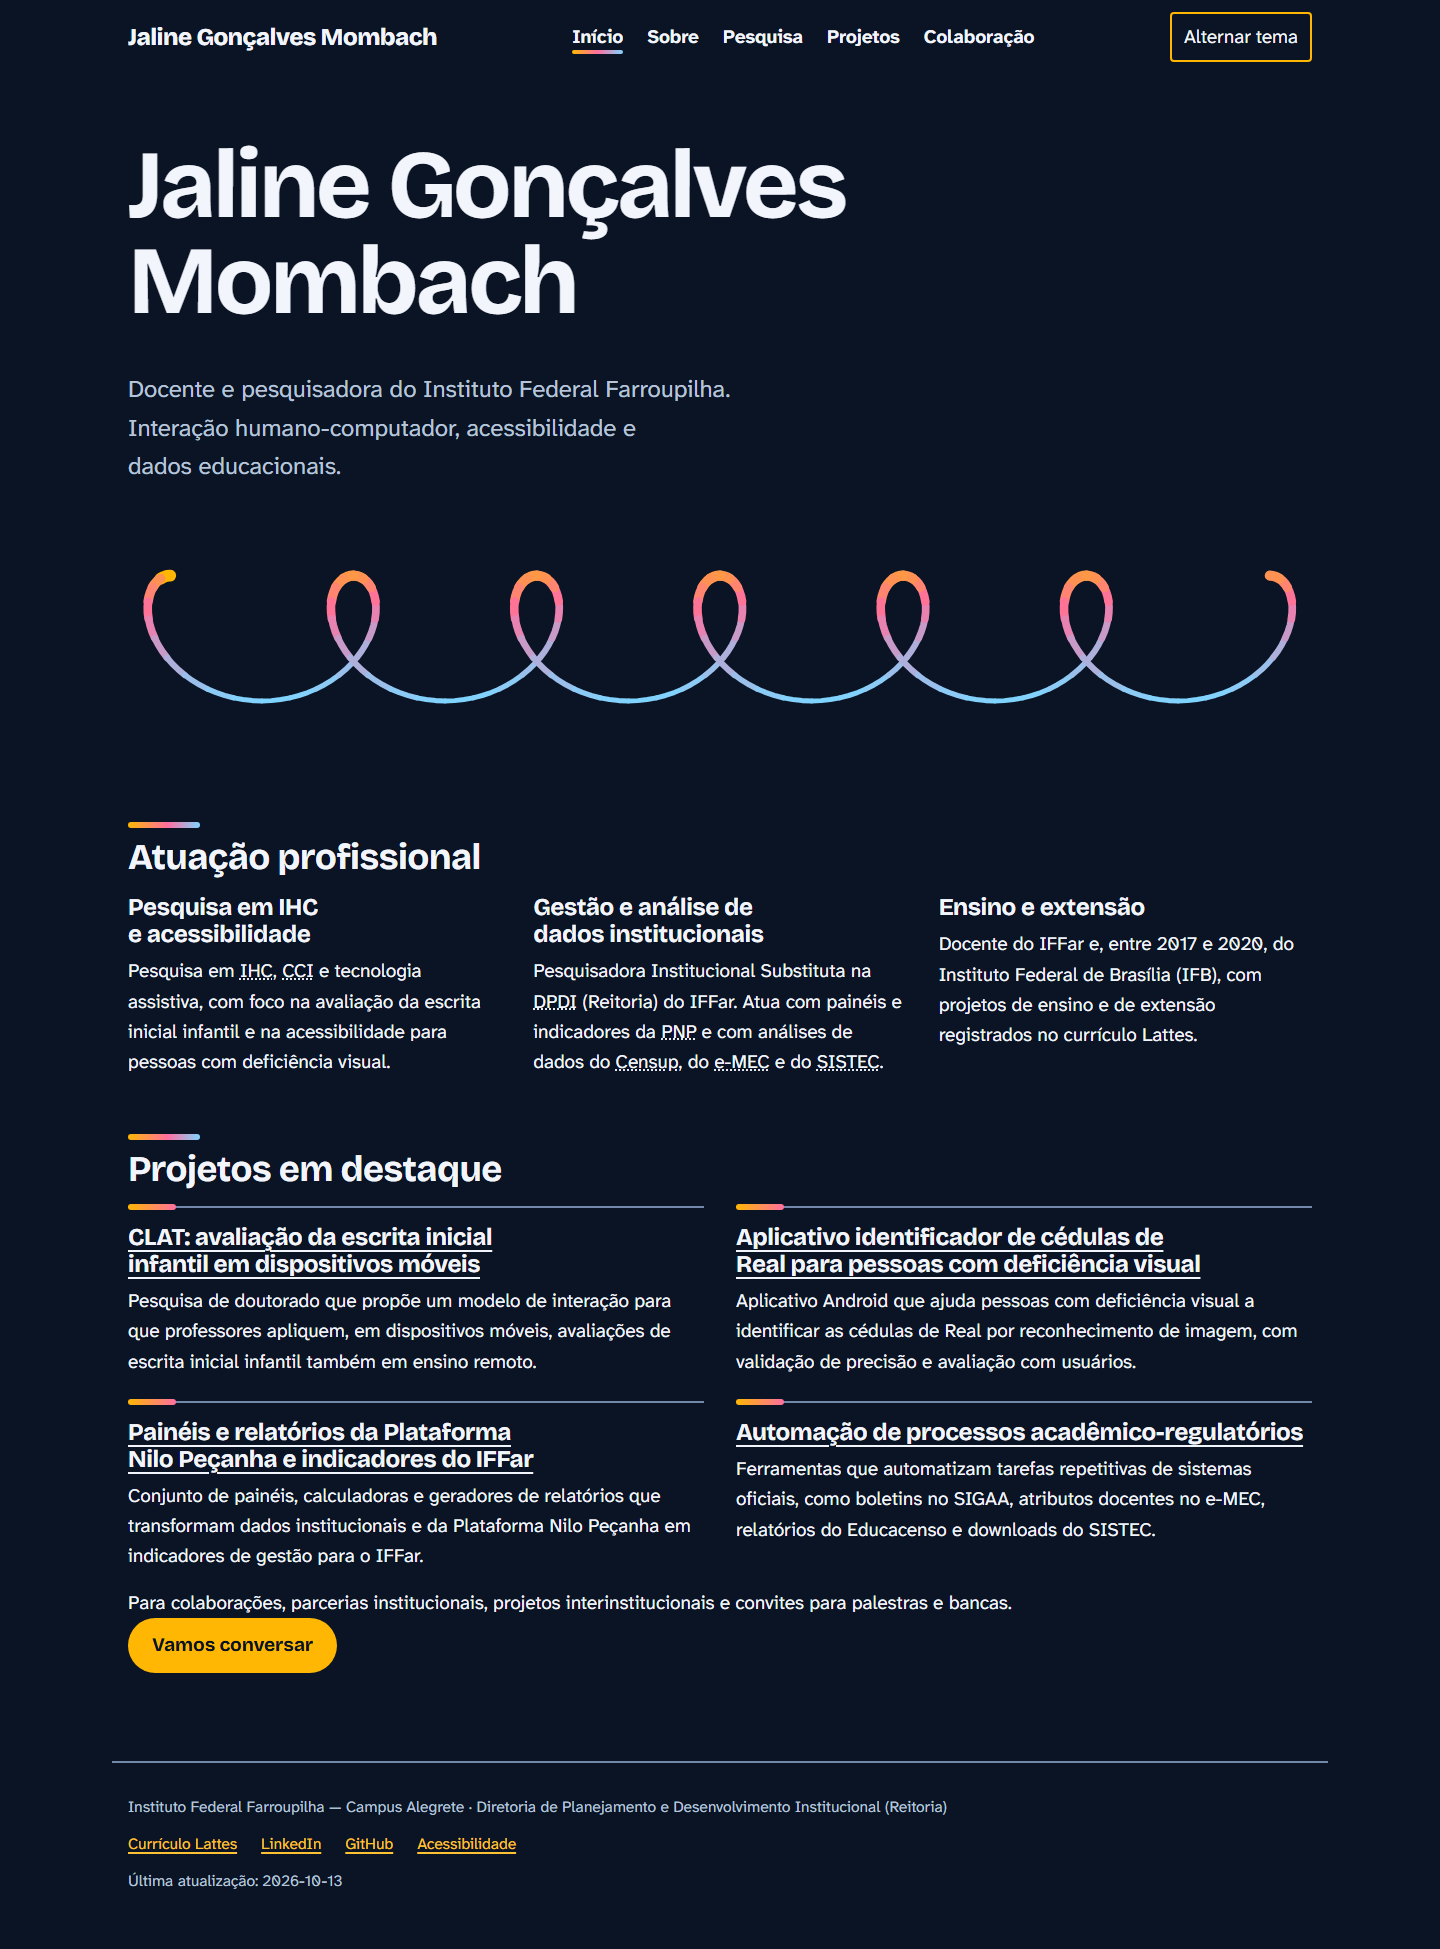
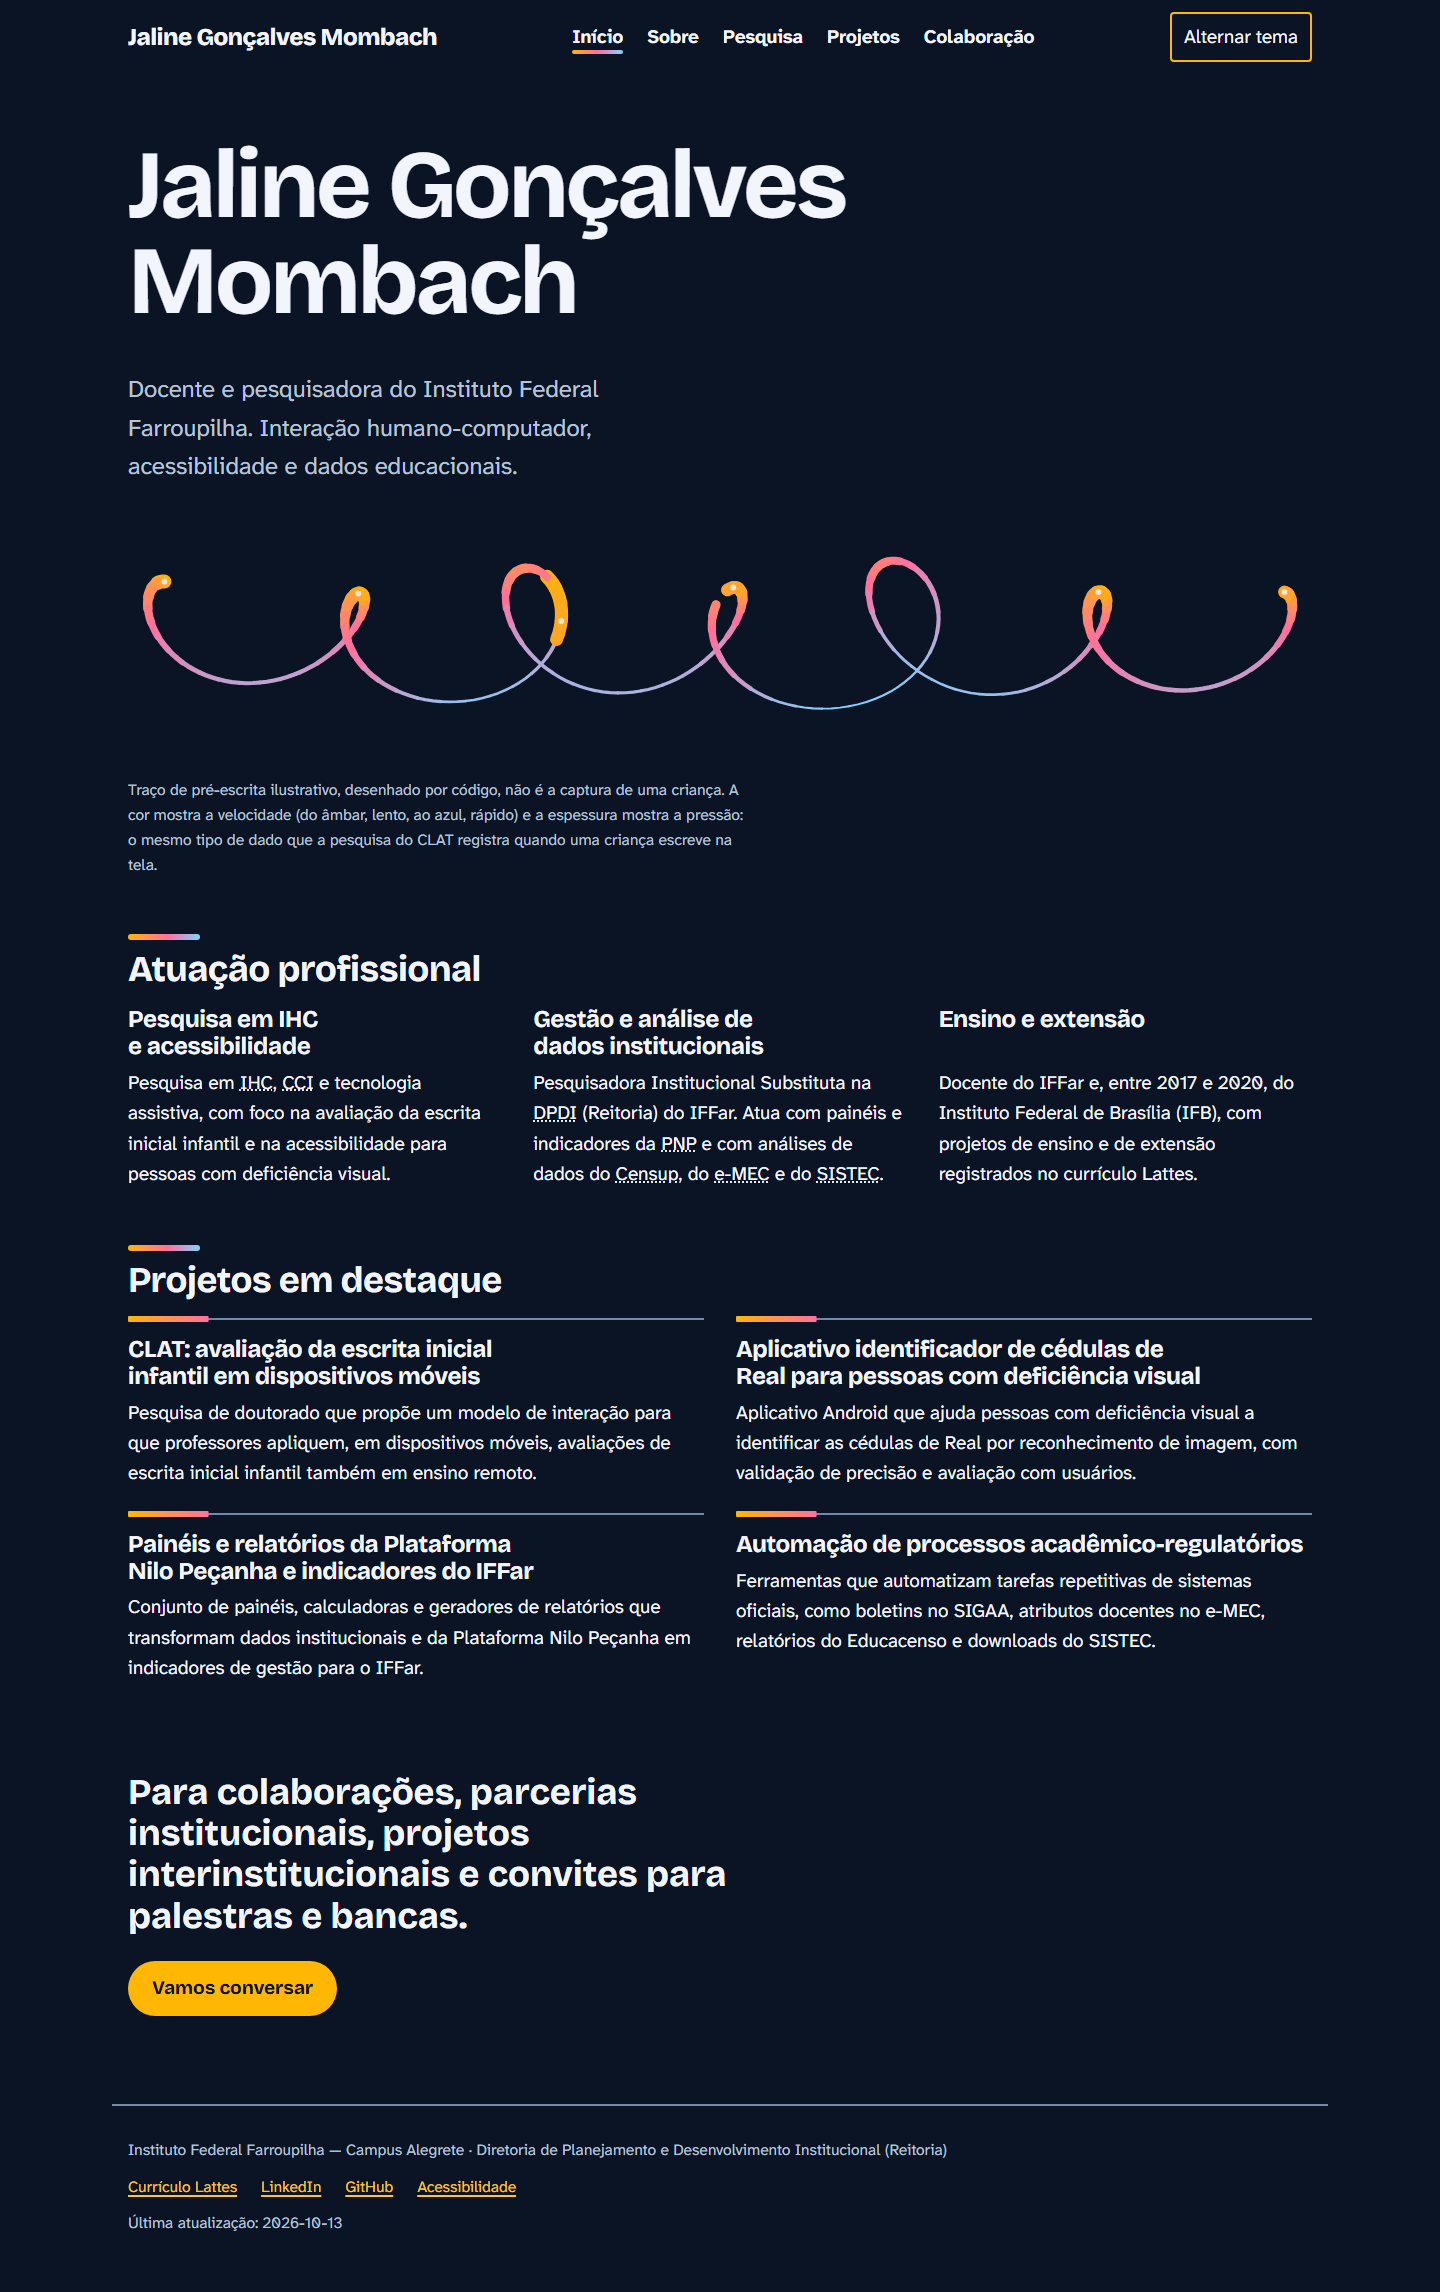
fix: trilha do ponteiro, legenda do traço, CTA, header mobile, remove placeholders
Claude-Session: https://claude.ai/code/session_019gHsZyKxDHVWhpkRBkq3Uf

diff --git a/src/styles/global.css b/src/styles/global.css
@@ -102,14 +102,11 @@ a:hover {
 }
 
 main {
-  max-width: var(--measure);
+  max-width: var(--wide);
   margin-inline: auto;
   padding: var(--space-6) var(--space-4) var(--space-8);
 }
 
-main.wide {
-  max-width: var(--wide);
-}
 
 button,
 a,
@@ -229,5 +226,49 @@ td {
 @media (max-width: 22rem) {
   main {
     padding-inline: var(--space-3);
+  }
+}
+
+.trace-live {
+  position: absolute;
+  inset: 0;
+  width: 100%;
+  height: 100%;
+  pointer-events: none;
+}
+
+html {
+  accent-color: var(--trace-slow);
+  scrollbar-color: var(--color-border) var(--color-bg);
+}
+
+input,
+textarea,
+select {
+  caret-color: var(--trace-slow);
+}
+
+main:not(.wide) > * {
+  max-width: var(--measure);
+}
+
+@media (max-width: 40rem) {
+  .site-header__inner {
+    position: relative;
+  }
+  #theme-toggle {
+    position: absolute;
+    inset-block-start: var(--space-2);
+    inset-inline-end: var(--space-4);
+    min-block-size: 40px;
+    padding-inline: var(--space-2);
+    font-size: var(--font-size-sm);
+  }
+}
+
+@media (max-width: 40rem) {
+  .site-name {
+    font-size: 1.05rem;
+    max-width: calc(100% - 8.5rem);
   }
 }

diff --git a/tests/unit/projetos.test.ts b/tests/unit/projetos.test.ts
@@ -104,10 +104,10 @@ describe("projetos/index.html", () => {
     expect(h).toMatch(/<div class="vazio" data-vazio hidden/);
   });
 
-  it("imagens têm alt e a placeholder de linguagem é decorativa", () => {
+  it("imagens têm alt e não há caixa de placeholder vazia", () => {
     const h = page();
     for (const img of h.match(/<img [^>]*>/g) ?? []) expect(img).toMatch(/\salt="/);
-    expect(h).toMatch(/<div class="card-placeholder" aria-hidden="true"[^>]*>/);
+    expect(h).not.toMatch(/card-placeholder/);
   });
 
   it("não contém vocabulário proibido", () => {
